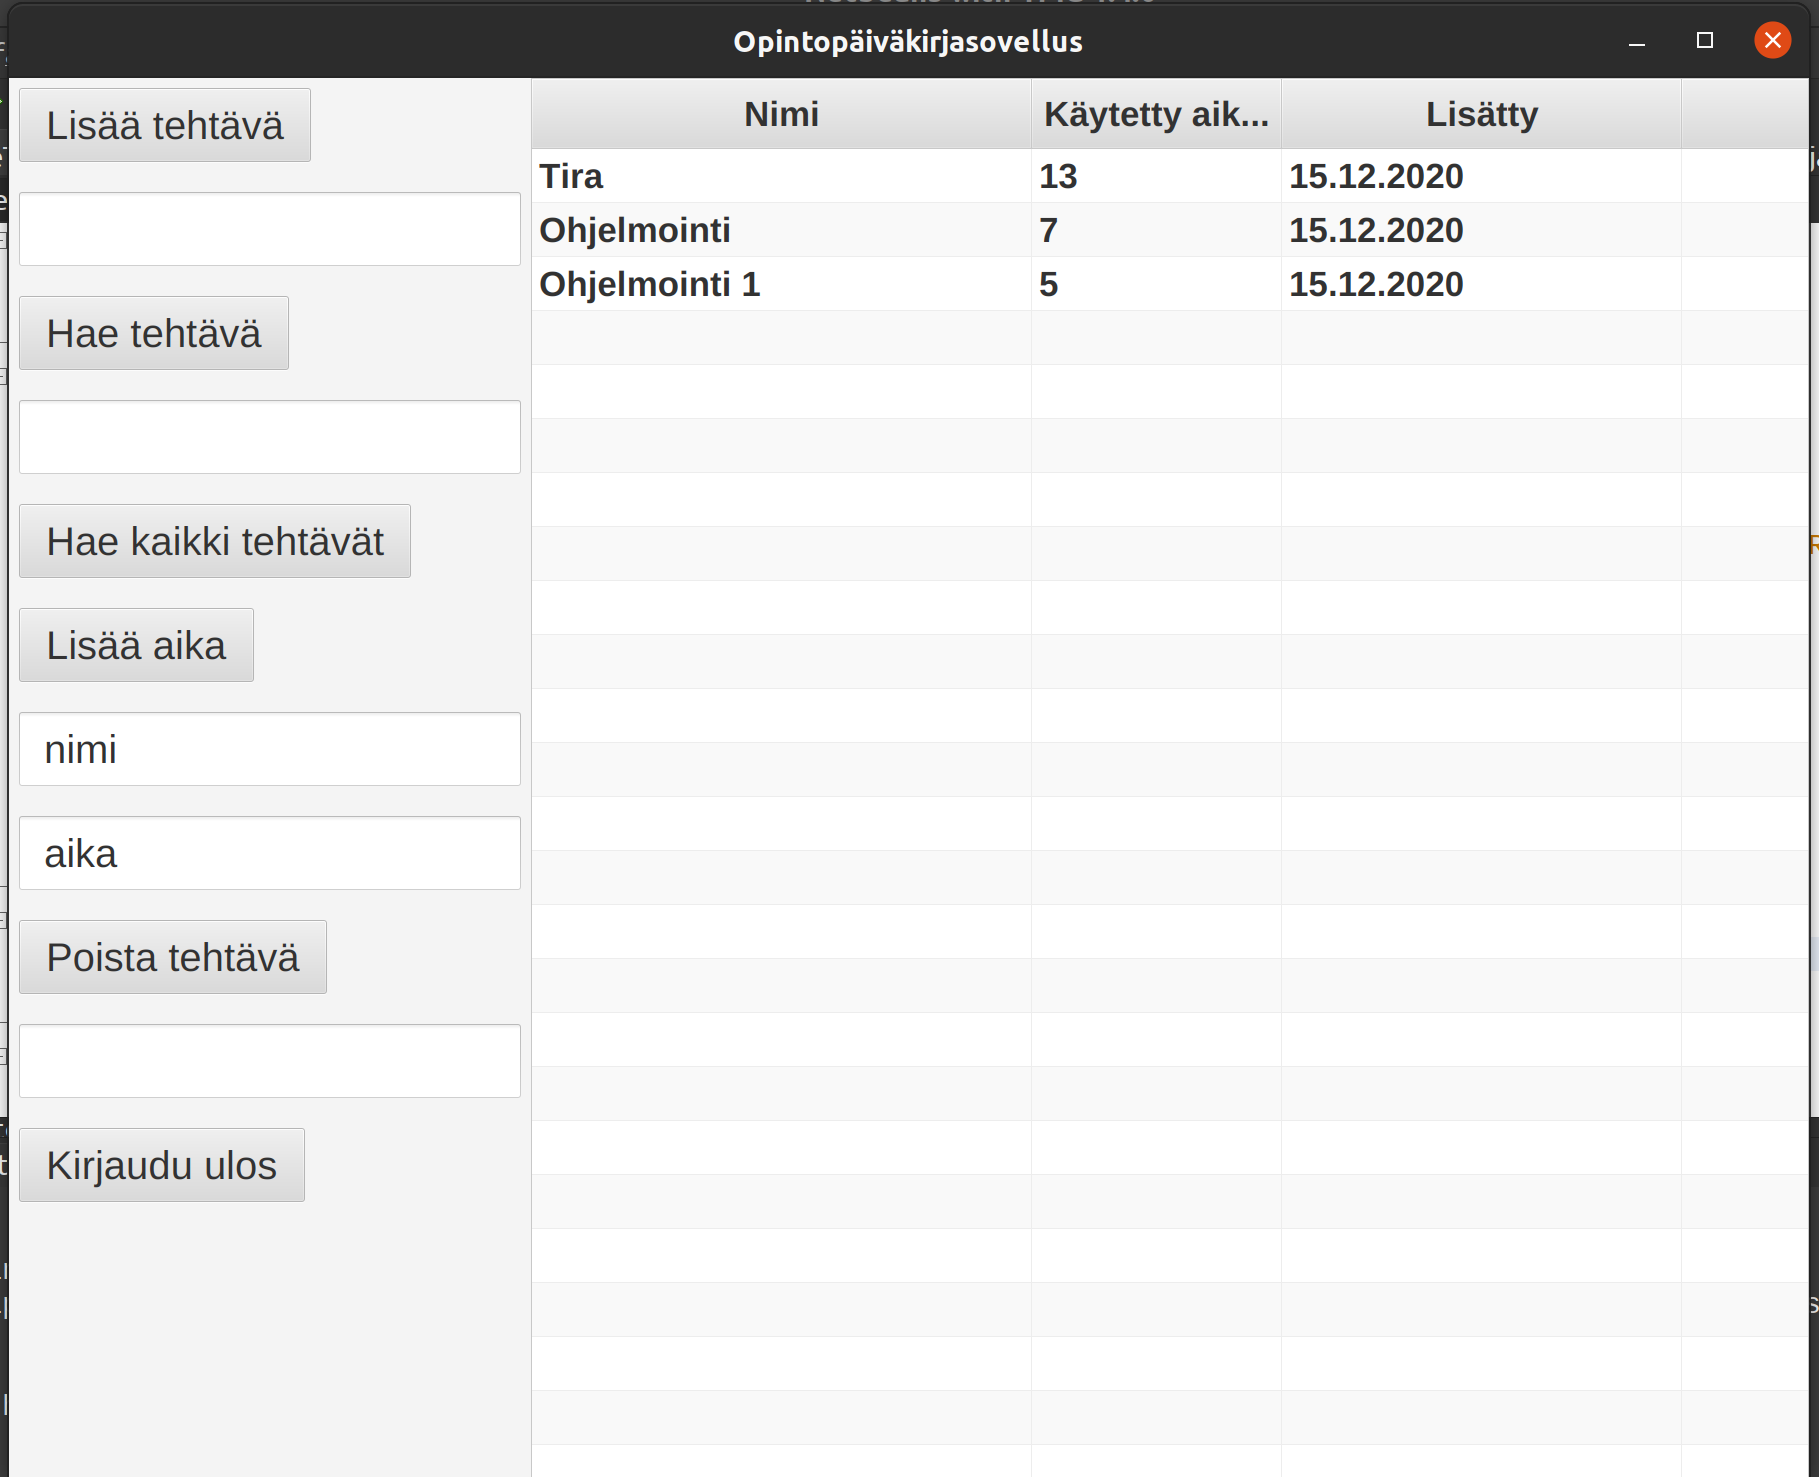
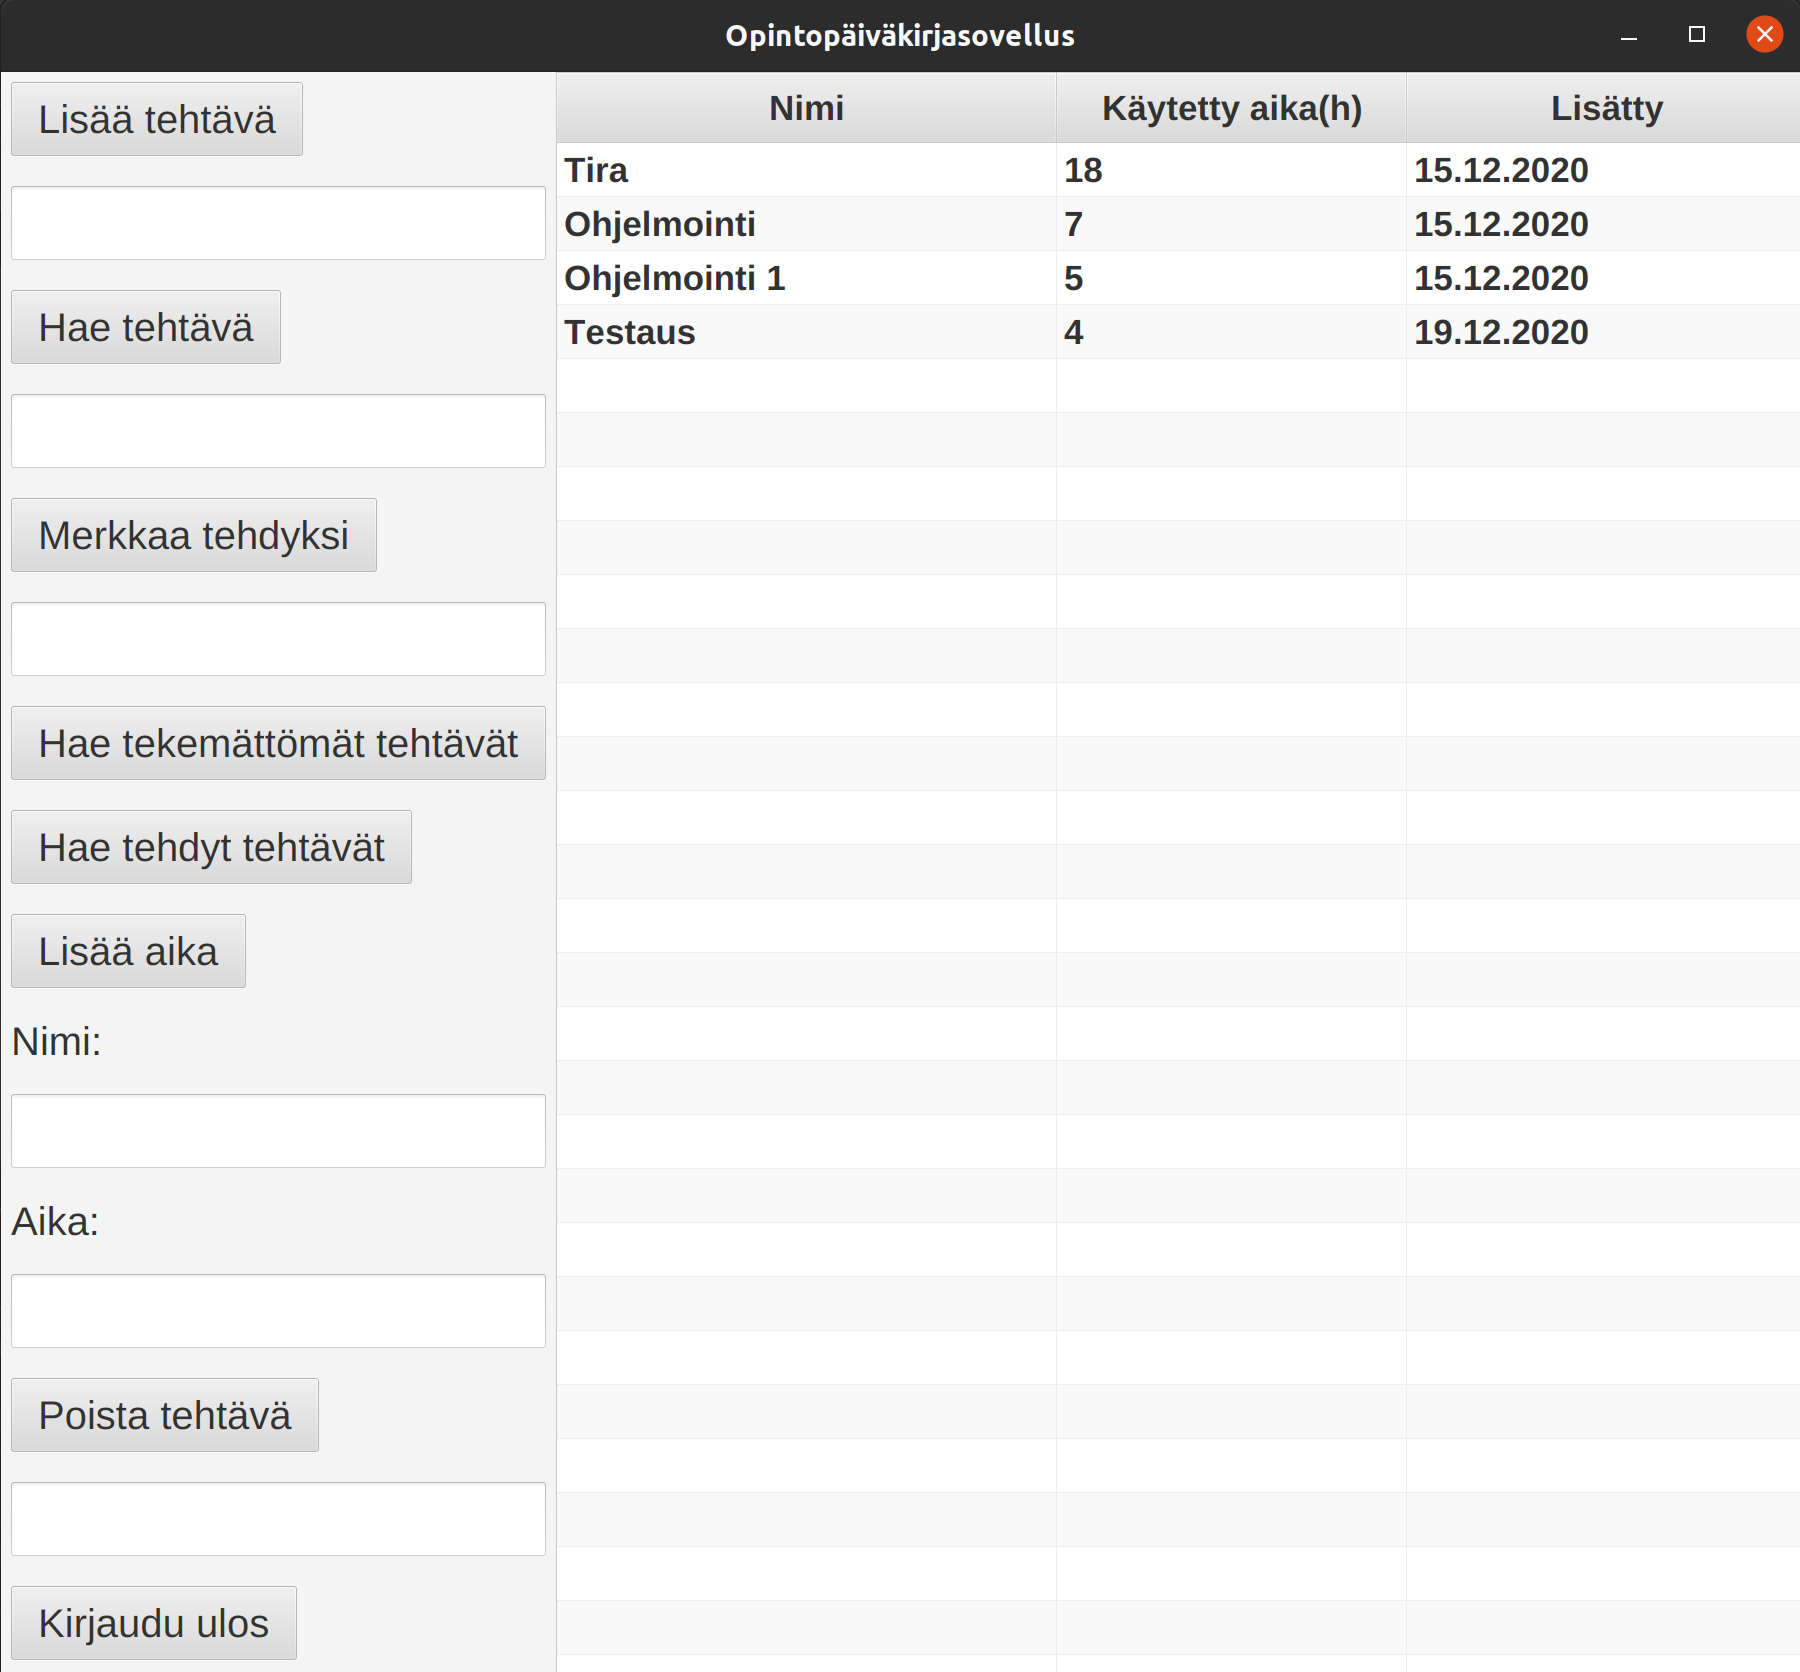
päivityksiä koodiin ja uusi kuva

Changed region(s): [[0.0, 0.0, 1.0, 1.0], [0.5911, 0.1557, 0.6222, 0.1869]]

diff --git a/Opintopaivakirjasovellus/src/main/java/opintopaivakirjasovellus/ui/MainView.java b/Opintopaivakirjasovellus/src/main/java/opintopaivakirjasovellus/ui/MainView.java
@@ -19,15 +19,18 @@ import opintopaivakirjasovellus.domain.Task;
 public class MainView {
     private Button addNewTask;
     private Button getTask;
-    private Button getAll;
+    private Button getAllUndoneTasks;
     private Button addTimeUsed;
     private Button logOut;
     private Button deleteTask;
+    private Button markDone;
+    private Button getAllDoneTasks;
     private TextField addNewTaskName;
     private TextField getTaskName;
     private TextField addTimeTaskName;
     private TextField addTimeUsedTime;
     private TextField deleteTaskName;
+    private TextField markDoneText;
     private TableView<Task> table;
     private final double fontSize = 40.0;
     private BorderPane pane;
@@ -49,8 +52,14 @@ public class MainView {
         getTask = new Button("Hae tehtävä");
         getTask.setFont(new Font(fontSize));
         
-        getAll = new Button("Hae kaikki tehtävät");
-        getAll.setFont(new Font(fontSize));
+        markDone = new Button("Merkkaa tehdyksi");
+        markDone.setFont(new Font(fontSize));
+        
+        getAllUndoneTasks = new Button("Hae tekemättömät tehtävät");
+        getAllUndoneTasks.setFont(new Font(fontSize));
+        
+        getAllDoneTasks = new Button("Hae tehdyt tehtävät");
+        getAllDoneTasks.setFont(new Font(fontSize));
         
         addTimeUsed = new Button("Lisää aika");
         addTimeUsed.setFont(new Font(fontSize));
@@ -63,52 +72,48 @@ public class MainView {
         
         addNewTaskName = new TextField();
         addNewTaskName.setFont(new Font(fontSize));
+        
         getTaskName = new TextField();
         getTaskName.setFont(new Font(fontSize));
-        addTimeTaskName = new TextField("nimi");
+        
+        addTimeTaskName = new TextField();
         addTimeTaskName.setFont(new Font(fontSize));
-        addTimeUsedTime = new TextField("aika");
+        
+        addTimeUsedTime = new TextField();
         addTimeUsedTime.setFont(new Font(fontSize));
+        
         deleteTaskName = new TextField();
         deleteTaskName.setFont(new Font(fontSize));
+        
+        markDoneText = new TextField();
+        markDoneText.setFont(new Font(fontSize));
         
         messages = new Label("");
         messages.setFont(new Font(fontSize));
         messages.setTextFill(Color.RED);
         
+        Label nimi = new Label("Nimi:");
+        Label aika = new Label("Aika:");
+        nimi.setFont(new Font(fontSize));
+        aika.setFont(new Font(fontSize));
         
         
-        //vbox.setMargin(addNewTask, new Insets(0,0,0,8));
         vbox.getChildren().add(addNewTask);
-        
-        //vbox.setMargin(addNewTaskName, new Insets(0,0,0,8));
         vbox.getChildren().add(addNewTaskName);
-        
-        //vbox.setMargin(getTask, new Insets(0,0,0,8));
         vbox.getChildren().add(getTask);
-        
-        //vbox.setMargin(getTaskName, new Insets(0,0,0,8));
-        vbox.getChildren().add(getTaskName);
-        
-        //vbox.setMargin(getAll, new Insets(0,0,0,8));
-        vbox.getChildren().add(getAll);
-        
-        //vbox.setMargin(addTimeUsed, new Insets(0,0,0,8));
+        vbox.getChildren().add(getTaskName);      
+        vbox.getChildren().add(markDone);      
+        vbox.getChildren().add(markDoneText);
+        vbox.getChildren().add(getAllUndoneTasks);
+        vbox.getChildren().add(getAllDoneTasks);
         vbox.getChildren().add(addTimeUsed);
-        
-        //vbox.setMargin(addTimeTaskName, new Insets(0,0,0,8));
+        vbox.getChildren().add(nimi);
         vbox.getChildren().add(addTimeTaskName);
-        //vbox.setMargin(addTimeUsedTime, new Insets(0,0,0,8));
+        vbox.getChildren().add(aika);
         vbox.getChildren().add(addTimeUsedTime);
-        
-        //vbox.setMargin(deleteTask, new Insets(0,0,0,8));
         vbox.getChildren().add(deleteTask);
-        //vbox.setMargin(deleteTaskName, new Insets(0,0,0,8));
         vbox.getChildren().add(deleteTaskName);
-        
-        //vbox.setMargin(logOut, new Insets(0,0,0,8));
         vbox.getChildren().add(logOut);
-        
         vbox.getChildren().add(messages);
           
         table = new TableView<Task>();
@@ -119,7 +124,7 @@ public class MainView {
         nameColumn.setCellValueFactory(new PropertyValueFactory<>("name"));
              
         TableColumn<Task, Integer> timeColumn = new TableColumn("Käytetty aika(h)");
-        timeColumn.setMinWidth(250);
+        timeColumn.setMinWidth(350);
         timeColumn.setCellValueFactory(new PropertyValueFactory<>("timeUsed"));
         
         TableColumn<Task, String> dateColumn = new TableColumn("Lisätty");
@@ -146,7 +151,13 @@ public class MainView {
     }
 
     public Button getAll() {
-        return getAll;
+        return getAllUndoneTasks;
+    }
+    public Button getAllDoneButton() {
+        return this.getAllDoneTasks;
+    }
+    public Button getMarkDoneButton() {
+        return this.markDone;
     }
 
     public Button getAddTimeUsed() {
@@ -173,6 +184,9 @@ public class MainView {
 
     public TextField getAddTimeUsedTime() {
         return addTimeUsedTime;
+    }
+    public TextField getMarkDoneText() {
+        return this.markDoneText;
     }
 
     public TableView<Task> getTable() {

diff --git a/Opintopaivakirjasovellus/src/main/java/opintopaivakirjasovellus/ui/OpintopaivakirjasovellusGUI.java b/Opintopaivakirjasovellus/src/main/java/opintopaivakirjasovellus/ui/OpintopaivakirjasovellusGUI.java
@@ -32,7 +32,7 @@ public class OpintopaivakirjasovellusGUI extends Application {
         primaryStage.setTitle("Opintopäiväkirjasovellus");
         Scene logInScene = new Scene(logInView.getView(), 1200, 700);
         Scene createUserScene = new Scene(createUserView.getView(), 1200, 700);
-        Scene mainScene = new Scene(mainView.getView(), 1800, 1400);
+        Scene mainScene = new Scene(mainView.getView(), 1800, 1800);
 
         //Sisäänkirjautumisnäkymän toiminnallisuus
         logInView.getLogInButton().setOnAction(new EventHandler<ActionEvent>() {
@@ -102,7 +102,21 @@ public class OpintopaivakirjasovellusGUI extends Application {
             public void handle(ActionEvent event) {
                 try {
                     mainView.getMessages().setText("");
-                    mainView.getTable().setItems(getTasks());
+                    tasks = FXCollections.observableArrayList();
+                    List<Task> allTasks = service.getAll();
+                    if (allTasks.isEmpty()) {
+                        mainView.getMessages().setText("Sinulla ei ole tehtäviä");
+                        return;
+                    }
+                    for (Task t: allTasks) {
+                        if (!t.getDone()) {
+                            tasks.add(t);
+                        }
+                    }
+                    if (tasks.isEmpty()) {
+                        mainView.getMessages().setText("Sinulla ei ole tekemättömiä tehtäviä");
+                    }
+                    mainView.getTable().setItems(tasks);
                 } catch (Exception e) {
                     System.out.println(e);
                 }
@@ -159,6 +173,47 @@ public class OpintopaivakirjasovellusGUI extends Application {
             }
         });
         
+        mainView.getMarkDoneButton().setOnAction(new EventHandler<ActionEvent>() {
+            @Override
+            public void handle(ActionEvent event) {
+                String taskName = mainView.getMarkDoneText().getText();
+                try {
+                    mainView.getMessages().setText("");
+                    service.markDoneTask(taskName);
+                    mainView.getMarkDoneText().setText("");
+                    mainView.getMessages().setText("Tehtävä merkattiin tehdyksi");
+                } catch (Exception e) {
+                    mainView.getMessages().setText("Tehtävää ei löydy");
+                }
+            }
+        });
+        mainView.getAllDoneButton().setOnAction(new EventHandler<ActionEvent>() {
+            @Override
+            public void handle(ActionEvent event) {
+                try {
+                    mainView.getMessages().setText("");
+                    tasks = FXCollections.observableArrayList();
+                    List<Task> allTasks = service.getAll();
+                    if (allTasks.isEmpty()) {
+                        mainView.getMessages().setText("Sinulla ei ole tehtäviä");
+                        return;
+                    }
+                    for (Task t: allTasks) {
+                        if (t.getDone()) {
+                            tasks.add(t);
+                        }
+                    }
+                    if (tasks.isEmpty()) {
+                        mainView.getMessages().setText("Sinulla ei ole tehtyjä tehtäviä");
+                    }
+                    mainView.getTable().setItems(tasks);
+                    
+                } catch (Exception e) {
+          
+                }
+            }
+        });
+        
         mainView.getAddTimeUsed().setOnAction(new EventHandler<ActionEvent>() {
             @Override
             public void handle(ActionEvent event) {
@@ -200,7 +255,7 @@ public class OpintopaivakirjasovellusGUI extends Application {
                     service.deleteTask(taskName);
                     mainView.deleteTaskName().setText("");
                 } catch (Exception e) {
-                    
+                    mainView.deleteTaskName().setText("Tehtävää ei löydy");
                 }
                 
             }

diff --git a/Opintopaivakirjasovellus/src/main/java/opintopaivakirjasovellus/dao/SqliteTaskDao.java b/Opintopaivakirjasovellus/src/main/java/opintopaivakirjasovellus/dao/SqliteTaskDao.java
@@ -263,7 +263,7 @@ public class SqliteTaskDao implements TaskDao {
         try {
             conn = connect();
             addTaskToTableHistory(task, user, time, date);
-            PreparedStatement p = conn.prepareStatement("UPDATE Tasks SET time=time+? WHERE user_id=? AND name=?");
+            PreparedStatement p = conn.prepareStatement("UPDATE Tasks SET time=time+? WHERE user_id=? AND name=? AND done=0");
             p.setInt(1, time);
             p.setInt(2, userDao.getUserId(user.getUsername()));
             p.setString(3, task.getName());

diff --git a/Opintopaivakirjasovellus/src/main/java/opintopaivakirjasovellus/domain/AppService.java b/Opintopaivakirjasovellus/src/main/java/opintopaivakirjasovellus/domain/AppService.java
@@ -125,6 +125,19 @@ public class AppService {
         
         
     }
+    public void markDoneTask(String taskName) throws Exception {
+        if (loggedIn == null) {
+            return;
+        }
+        taskName = taskName.trim();
+        try {
+            Task task = taskDao.getTask(taskName, loggedIn);
+            taskDao.setDone(task, loggedIn);
+        } catch (Exception e) {
+            
+        }
+    }
+    
     /**
     * Palauttaa sisäänkirjautuneen käyttäjän tehtävät listana.
     * @throws Exception poikkeus
